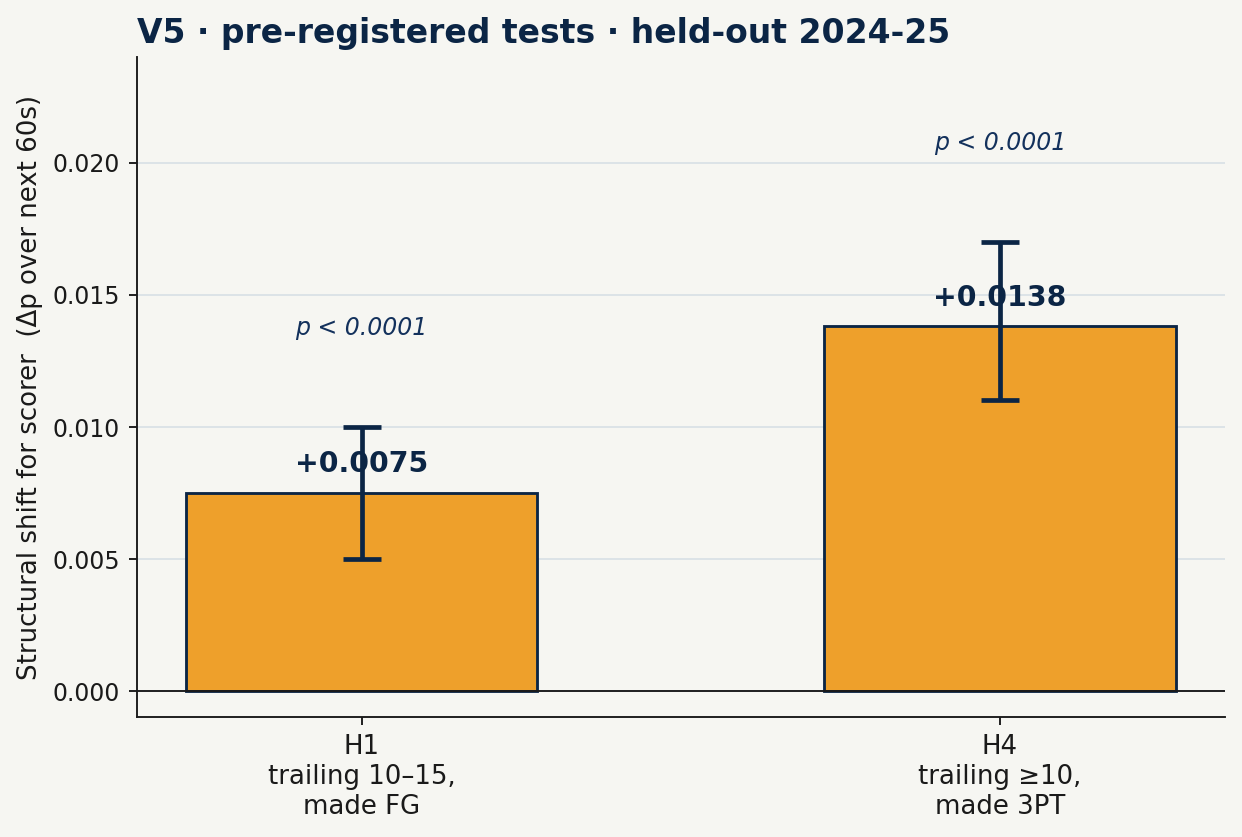
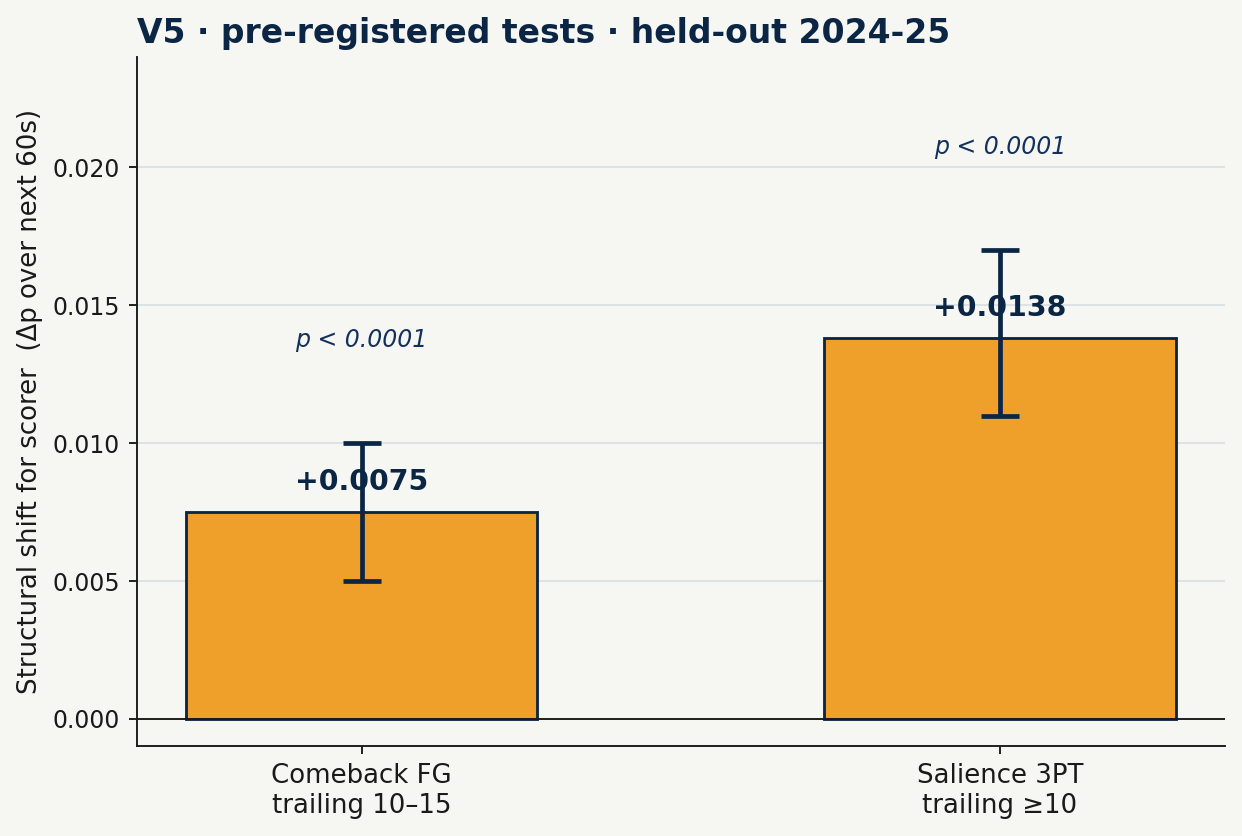
Slides: simplify research question + Game 6 pilot + drop H1/H4 jargon
Research question: ONE top-level question + two sub-questions
  Q: 'Can we use a calibrated WP model to detect mispricing and profit
      from it in NBA in-play markets?'
  Sub-Q1: Is the bias detectable?  -> overreaction-test slide
  Sub-Q2: Can we make money?       -> pilot + verdict slides

Game 6 pilot (NEW): per-game model ROI bar chart, Game 6 highlighted
  · Game 6 alone: +12% on Kalshi 1H (smallest of the 5)
  · 5-game pool: +95% (artifact -- stale-mid + n=5)
  · Replaces the standalone liquidity-only slide

H1/H4 -> plain English:
  · H1 -> 'Comeback FG (trail 10-15)'
  · H4 -> 'Salience 3PT (trail >=10)'
  · v5_shifts.png chart labels updated
  · Removed H1/H4 from research question, overreaction test, Halawi tie-back,
    verdict, workflow diagram, results table, and money-question sections
  · 'pre-registered' kept (it's the methodological badge)

Speaker script renumbered to match new flow.

diff --git a/slides/build.js b/slides/build.js
@@ -80,23 +80,46 @@ builders.push(s => {
 
 // ─── 3. RESEARCH QUESTION ────────────────────────────────────────────────
 builders.push(s => {
-  header(s, "Research question", "Pre-registered before any test-set data was touched");
-  s.addShape("roundRect", { x:0.55, y:1.65, w:12.3, h:1.85,
-    fill:{color:C.CREAM}, line:{color:C.TEAL, width:1.5}, rectRadius:0.1 });
-  s.addText("Can a calibrated in-game NBA win-probability model systematically identify live-market mispricings driven by crowd overreaction — specifically in trailing-team scoring events?",
-    { x:0.85, y:1.85, w:11.7, h:1.5, fontFace:F.title, fontSize:20, italic:true, color:C.NAVY });
-  s.addText("Two pre-registered tests:",
-    { x:0.55, y:3.85, w:12.3, h:0.4, fontFace:F.body, fontSize:16, bold:true, color:C.DEEP });
+  header(s, "Research question", "One question, two sub-questions");
+  // big main question box
+  s.addShape("roundRect", { x:0.55, y:1.6, w:12.3, h:1.85,
+    fill:{color:C.CREAM}, line:{color:C.TEAL, width:1.8}, rectRadius:0.1 });
   s.addText([
-    { text:"H1 (primary)", options:{ bold:true, color:C.ACCENT }},
-    { text:" — trailing team in 10–15 pt deficit hits a made FG → market over-shifts vs structural model." },
-  ], { x:0.85, y:4.35, w:12.0, h:0.7, fontFace:F.body, fontSize:16, color:C.INK });
-  s.addText([
-    { text:"H4 (secondary)", options:{ bold:true, color:C.ACCENT }},
-    { text:" — trailing team in ≥10 pt deficit hits a made 3-pointer → larger over-shift." },
-  ], { x:0.85, y:5.05, w:12.0, h:0.7, fontFace:F.body, fontSize:16, color:C.INK });
-  s.addText("Block-bootstrap by game (n = games, not ticks). Holm-Bonferroni across the pre-registered set.",
-    { x:0.55, y:6.2, w:12.3, h:0.5, fontFace:F.body, fontSize:13, italic:true, color:C.SKY });
+    { text:"Can we use a calibrated win-probability model to ", options:{} },
+    { text:"detect mispricing", options:{ bold:true, color:C.NAVY }},
+    { text:" and ", options:{} },
+    { text:"profit from it", options:{ bold:true, color:C.ACCENT }},
+    { text:" in NBA in-play markets?", options:{} },
+  ], { x:0.85, y:1.85, w:11.7, h:1.4, fontFace:F.title, fontSize:22, italic:true,
+       color:C.NAVY, valign:"middle" });
+
+  s.addText("Decomposes into two sub-questions we can actually answer:",
+    { x:0.55, y:3.7, w:12.3, h:0.4, fontFace:F.body, fontSize:14, bold:true,
+      italic:true, color:C.DEEP, align:"center" });
+
+  // Sub-Q 1
+  s.addShape("roundRect", { x:0.55, y:4.2, w:6.0, h:2.6,
+    fill:{color:C.CODE_BG}, line:{color:C.NAVY, width:1.5}, rectRadius:0.1 });
+  s.addText("SUB-QUESTION 1", { x:0.75, y:4.3, w:5.6, h:0.35,
+    fontFace:F.body, fontSize:11, bold:true, color:C.DEEP });
+  s.addText("Is the bias DETECTABLE?",
+    { x:0.75, y:4.6, w:5.6, h:0.5, fontFace:F.title, fontSize:19, bold:true, color:C.NAVY });
+  s.addText("Tested on the held-out 2024-25 season via pre-registered overreaction tests on trailing-team scoring events.",
+    { x:0.75, y:5.15, w:5.6, h:1.05, fontFace:F.body, fontSize:13, color:C.INK });
+  s.addText("→ answered on the overreaction-test slide",
+    { x:0.75, y:6.3, w:5.6, h:0.35, fontFace:F.body, fontSize:11, italic:true, color:C.TEAL });
+
+  // Sub-Q 2
+  s.addShape("roundRect", { x:6.85, y:4.2, w:6.0, h:2.6,
+    fill:{color:C.CODE_BG}, line:{color:C.ACCENT, width:1.5}, rectRadius:0.1 });
+  s.addText("SUB-QUESTION 2", { x:7.05, y:4.3, w:5.6, h:0.35,
+    fontFace:F.body, fontSize:11, bold:true, color:C.DEEP });
+  s.addText("Can we EXTRACT it (make money)?",
+    { x:7.05, y:4.6, w:5.6, h:0.5, fontFace:F.title, fontSize:19, bold:true, color:C.NAVY });
+  s.addText("Tested via live backtest on real markets — does the edge survive the vig at a sample large enough to distinguish skill from luck?",
+    { x:7.05, y:5.15, w:5.6, h:1.05, fontFace:F.body, fontSize:13, color:C.INK });
+  s.addText("→ answered on the live-pilot + verdict slides",
+    { x:7.05, y:6.3, w:5.6, h:0.35, fontFace:F.body, fontSize:11, italic:true, color:C.TEAL });
 });
 
 // ─── 4. WHAT WE PLANNED — 6 variants table ───────────────────────────────
@@ -290,9 +313,9 @@ builders.push(s => {
   const rows = [
     [{ text:"Test", options:{ bold:true, color:C.CREAM, fill:C.NAVY }},
      { text:"n events / games", options:{ bold:true, color:C.CREAM, fill:C.NAVY, align:"center" }}],
-    [{ text:"H1 — trail 10–15, made FG", options:{ bold:true, color:C.NAVY }},
+    [{ text:"Comeback FG · trail 10–15", options:{ bold:true, color:C.NAVY }},
      { text:"4,596 / 947", options:{ align:"center", color:C.INK }}],
-    [{ text:"H4 — trail ≥10, made 3PT", options:{ bold:true, color:C.NAVY }},
+    [{ text:"Salience 3PT · trail ≥10", options:{ bold:true, color:C.NAVY }},
      { text:"2,162 / 780", options:{ align:"center", color:C.INK }}],
   ];
   s.addTable(rows, { x:7.95, y:1.7, w:4.85, colW:[3.0, 1.85],
@@ -362,17 +385,21 @@ builders.push(s => {
   ], { x:8.3, y:5.0, w:4.5, h:1.5, fontFace:F.body, fontSize:13, color:C.INK });
 });
 
-// ─── 11. LIQUIDITY × SAMPLE SIZE — FIGURE #4 ─────────────────────────────
+// ─── 11. GAME 6 PILOT + LIQUIDITY × SAMPLE — FIGURE #4 ───────────────────
 builders.push(s => {
-  header(s, "Liquidity × sample size are everything", "Same model family · two opposite results");
-  s.addImage({ path:"slides/figures/liquidity_sample.png", x:2.7, y:1.55, w:8.0, h:5.0 });
-  s.addShape("roundRect", { x:0.55, y:6.5, w:12.3, h:0.7,
+  header(s, "Game 6 pilot · OKC @ SAS, 2026-05-28  (FINAL SAS 118–91)",
+    "61 in-1H ticks on Kalshi · the 5-game pool tells the rest of the story");
+  s.addImage({ path:"slides/figures/game6_pilot.png", x:1.7, y:1.5, w:9.9, h:4.6 });
+  // commentary below
+  s.addShape("roundRect", { x:0.55, y:6.2, w:12.3, h:1.0,
     fill:{color:C.CREAM}, line:{color:C.ACCENT, width:1.3}, rectRadius:0.08 });
   s.addText([
-    { text:"The +100% against Kalshi is " },
-    { text:"stale mid-prices + n=4 + no slippage", options:{ bold:true, color:C.NAVY }},
-    { text:" — exactly the trap CLAUDE.md warns about. Real liquid markets are tight." },
-  ], { x:0.85, y:6.55, w:11.7, h:0.6, fontFace:F.body, fontSize:13, color:C.INK, align:"center", valign:"middle" });
+    { text:"Game 6 alone: ", options:{ bold:true, color:C.NAVY }},
+    { text:"model +12% on Kalshi 1H (smallest of the 5). " },
+    { text:"Pool of 5: +95%. ", options:{ bold:true, color:C.ACCENT }},
+    { text:"But Kalshi 1H prices were thin and stale, so the model 'beats' a price that isn't moving — " },
+    { text:"stale-mid + n=5 + mid quotes = artifact, not edge.", options:{ italic:true, color:C.DEEP }},
+  ], { x:0.85, y:6.3, w:11.7, h:0.85, fontFace:F.body, fontSize:13, color:C.INK, valign:"middle" });
 });
 
 // ─── 12. HALAWI TIE-BACK + V3 FORMULA ────────────────────────────────────
@@ -395,7 +422,7 @@ builders.push(s => {
     fill:{color:C.CREAM}, line:{color:C.TEAL, width:1.5}, rectRadius:0.1 });
   s.addText("Reframing:",
     { x:0.85, y:5.45, w:11.7, h:0.4, fontFace:F.body, fontSize:14, italic:true, color:C.DEEP });
-  s.addText("The model's job isn't to BEAT the market everywhere — it's to COMPLEMENT it in the specific situations where the crowd's bias is strongest (H1 / H4).",
+  s.addText("The model's job isn't to BEAT the market everywhere — it's to COMPLEMENT it in the specific situations (comeback FG, salience 3PT) where the crowd's bias is strongest.",
     { x:0.85, y:5.85, w:11.7, h:1.0, fontFace:F.body, fontSize:15, color:C.INK });
 });
 
@@ -434,10 +461,10 @@ builders.push(s => {
     [{ text:"Test", options:{ bold:true, color:C.CREAM, fill:C.NAVY, fontSize:11 }},
      { text:"Shift", options:{ bold:true, color:C.CREAM, fill:C.NAVY, align:"center", fontSize:11 }},
      { text:"p-value", options:{ bold:true, color:C.CREAM, fill:C.NAVY, align:"center", fontSize:11 }}],
-    [{ text:"H1 trail 10–15, FG", options:{ bold:true, color:C.NAVY, fontSize:12 }},
+    [{ text:"Comeback FG (trail 10–15)", options:{ bold:true, color:C.NAVY, fontSize:12 }},
      { text:"+0.0075", options:{ align:"center", color:C.ACCENT, bold:true, fontSize:13 }},
      { text:"< 0.0001", options:{ align:"center", color:C.ACCENT, bold:true, fontSize:13 }}],
-    [{ text:"H4 trail ≥10, 3PT", options:{ bold:true, color:C.NAVY, fontSize:12 }},
+    [{ text:"Salience 3PT (trail ≥10)", options:{ bold:true, color:C.NAVY, fontSize:12 }},
      { text:"+0.0138", options:{ align:"center", color:C.ACCENT, bold:true, fontSize:13 }},
      { text:"< 0.0001", options:{ align:"center", color:C.ACCENT, bold:true, fontSize:13 }}],
   ];
@@ -470,7 +497,7 @@ builders.push(s => {
   row(2.85, "TODAY · NO", C.ACCENT,
     "Live game vs liquid books: n=1 → −40% (noise). Kalshi +95% = stale-mid artifact.");
   row(3.80, "BIAS · YES", C.NAVY,
-    "V5 H1/H4 pre-reg passed on the held-out season. The overreaction is real.");
+    "Both pre-registered tests passed on the held-out season. The overreaction is real.");
   row(4.75, "PATH · CLEAR", C.TEAL,
     "Power the backtest ($59 historical) → V5-targeted strategy on Kalshi (legal, no limits).");
 

diff --git a/scripts/generate_slide_figures.py b/scripts/generate_slide_figures.py
@@ -85,7 +85,7 @@ def make_reliability():
 # ─── 2. V5 structural shifts ─────────────────────────────────────────────
 def make_v5_shifts():
     print("[2] V5 H1/H4 shift bar chart", flush=True)
-    names = ["H1\ntrailing 10–15,\nmade FG", "H4\ntrailing ≥10,\nmade 3PT"]
+    names = ["Comeback FG\ntrailing 10–15", "Salience 3PT\ntrailing ≥10"]
     point = np.array([0.0075, 0.0138])
     lo, hi = np.array([0.005, 0.011]), np.array([0.010, 0.017])
     err = np.vstack([point - lo, hi - point])
@@ -218,6 +218,37 @@ def make_pipeline():
     plt.close(fig)
 
 
+def make_game6_pilot():
+    """Game 6 (OKC@SAS, 2026-05-28) per-game model ROI on Kalshi 1H, in context of
+    the 5-game archive pool. Game 6 highlighted; others as muted bars."""
+    print("[6] Game 6 pilot (per-game Kalshi ROI)", flush=True)
+    games = ["G1 · Apr 30\nDEN @ MIN", "G2 · May 3\nTOR @ CLE", "G3 · May 4\nMIN @ SAS",
+             "G4 · May 13\nCLE @ DET", "G6 · May 28\nOKC @ SAS"]
+    rois = np.array([1.098, 0.867, 2.342, 0.299, 0.117])
+    colors = [SKY, SKY, SKY, SKY, ACCENT]  # Game 6 highlighted
+    fig, ax = plt.subplots(figsize=(8.4, 5.0), dpi=170)
+    fig.patch.set_facecolor(CREAM); ax.set_facecolor(CREAM)
+    x = np.arange(len(games))
+    bars = ax.bar(x, rois, width=0.62, color=colors, edgecolor=NAVY, lw=1.3)
+    ax.axhline(0, color=INK, lw=0.9)
+    for b, v in zip(bars, rois):
+        ax.text(b.get_x() + b.get_width() / 2, v + 0.05,
+                f"{v:+.0%}", ha="center", fontsize=12, fontweight="bold", color=NAVY)
+    ax.set_xticks(x); ax.set_xticklabels(games, fontsize=10)
+    ax.set_ylabel("Per-game model ROI", fontsize=11)
+    ax.set_ylim(-0.1, 2.7)
+    yt = [0, 0.5, 1.0, 1.5, 2.0, 2.5]
+    ax.set_yticks(yt); ax.set_yticklabels([f"{int(v*100)}%" for v in yt])
+    ax.set_title("Game 6 vs the 4 archived Kalshi 1H games  ·  5-game pool ROI +95%",
+                 fontsize=12, color=NAVY, fontweight="bold", loc="left")
+    ax.text(0.99, 0.02, "model 'won' all 5 — but it's a stale-mid artifact (see next slide)",
+            transform=ax.transAxes, ha="right", fontsize=10, style="italic", color=DEEP)
+    ax.grid(alpha=0.25, color=SKY, axis="y")
+    fig.tight_layout()
+    fig.savefig(OUT / "game6_pilot.png", facecolor=CREAM, bbox_inches="tight")
+    plt.close(fig)
+
+
 def main() -> int:
     OUT.mkdir(parents=True, exist_ok=True)
     make_reliability()
@@ -225,6 +256,7 @@ def main() -> int:
     make_pilot_roi()
     make_liquidity()
     make_pipeline()
+    make_game6_pilot()
     print("\nWrote:")
     for p in sorted(OUT.glob("*.png")):
         print(f"  {p.relative_to(REPO_ROOT)}  ({p.stat().st_size//1024} KB)")

diff --git a/slides/speaker_script.md b/slides/speaker_script.md
@@ -23,8 +23,9 @@ Pair this with `slides/final_deck.pptx` (14 slides, ~10 min). Sections:
 > "So we asked: *where can we cleanly test 'calibrated model beats crowd' with fast resolution, real money, and a documented bias?* **NBA in-play.**"
 
 ### Slide 3 — Research question  (30 sec)
-> "Our question, pre-registered before any test data was touched: can a calibrated NBA win-probability model identify mispricings driven by **trailing-team overreaction**."
-> "Two tests: **H1** — trailing team in a 10-to-15-point deficit hits a field goal. **H4** — trailing team in a 10-plus-point deficit hits a three. Both pre-registered, Holm-Bonferroni corrected, block-bootstrap by *game* — that distinction matters and I'll come back to it."
+> "Our research question is one line: **can we use a calibrated win-probability model to detect mispricing and profit from it in NBA in-play markets?**"
+> *(point at the two sub-question cards)*
+> "It decomposes into two sub-questions we can actually answer. **One: is the bias detectable?** Tested on the held-out 2024-25 season with pre-registered overreaction tests. **Two: can we extract it — actually make money?** Tested with a live backtest on real markets."
 
 ### Slide 4 — What we planned · 6 ways to detect mispricing  (30 sec)
 > "Within NBA, we mapped out six methodological approaches to detecting mispricing — from cross-venue consensus to time-series mean reversion to event-conditioned overreaction."
@@ -49,7 +50,7 @@ Pair this with `slides/final_deck.pptx` (14 slides, ~10 min). Sections:
 ### Slide 8 — The overreaction test  (75 sec) · **headline #2**
 > "Now the behavioral test. For each pre-registered event, we measure the **structural shift for the scorer over the next 60 seconds** — how much does the calibrated model move toward the scoring team after they make a basket while trailing?"
 > *(point at the bars)*
-> "**H1: +0.75 percentage points. p < 0.0001.** With block-bootstrap by *game* across 4,596 events. **H4: +1.4 points. p < 0.0001.**"
+> "**The comeback-FG test: +0.75 percentage points. p < 0.0001.** Block-bootstrap by *game* across 4,596 events. **The salience-3PT test: +1.4 points. p < 0.0001.**"
 > "Both pre-registered tests pass on the held-out season. The model says: *a trailing team's basket genuinely does move the structural fair value in their favor.*"
 > "Which sets up the behavioral question: **does the market shift by more than this?** That's the mispricing — when the crowd overshoots what the fundamentals say."
 
@@ -64,15 +65,17 @@ Pair this with `slides/final_deck.pptx` (14 slides, ~10 min). Sections:
 > "**Our model lost 40%. 'Always favorite' made 34%.**"
 > "And — this is critical — *the lesson is the result*. The model faded San Antonio when the game was close early. OKC pulled away. The model lost. 'Always favorite' won — but only because the favorite happened to win this one game. **That's the n-equals-one problem made tangible**, and it's the methodological backbone of this whole talk."
 
-### Slide 11 — Liquidity × sample  (45 sec)
-> "We also have a five-game Kalshi archive backtest. The *same model family*, against Kalshi's 1st-half-winner market, returns plus-95-percent."
-> "Don't trust that number. The Kalshi 1H market is thin — its prices are *stale*. A score-reactive model 'beats' a price that isn't updating. Plus n equals 5, plus mid quotes, plus no slippage. **It's an artifact, not an edge.**"
-> "Same model — opposite signs. That tells you: **liquidity quality and sample size are everything.** Tight liquid markets are hard. Thin stale ones look easy but aren't real."
+### Slide 11 — Game 6 pilot + liquidity lesson  (45 sec)
+> "Game 6 happened two nights after Game 5 — OKC at San Antonio. SAS won 118-91."
+> *(point at the highlighted Game 6 bar)*
+> "Our model returned **+12% on Game 6 alone** against Kalshi's 1H-winner market — the *smallest* of the five archived Kalshi games. **Pool of all five: +95%.**"
+> "Don't trust that pool number. The Kalshi 1H market was thin — prices stale, slow to update. A score-reactive model 'beats' a price that isn't moving. Plus n equals 5, plus mid quotes, plus no slippage. **It's an artifact, not an edge.**"
+> "Same model — opposite signs from Game 5. The lesson: **liquidity and sample size are everything.**"
 
 ### Slide 12 — Connecting back to Halawi  (45 sec)
 > "Tie back to the midterm. Halawi's aggregate works because LM errors and crowd errors are **independent**. The same structure applies here: our structural model reads game-state, the market absorbs sentiment and inside flow — partly independent error sources."
 > "The 'aggregate' variant from the earlier table — number three — is the literal Halawi analog: `p̂_aggregate = w·p_model + (1−w)·p_market_devig`, weight chosen by validation Brier. The aggregate's Brier is bounded by the minimum of the components."
-> "Reframing: the model's job isn't to *beat* the market everywhere. It's to **complement** the market in the specific situations — H1, H4 — where the crowd's bias is biggest."
+> "Reframing: the model's job isn't to *beat* the market everywhere. It's to **complement** the market in the specific situations — (comeback FGs, salience 3PTs) — where the crowd's bias is biggest."
 
 ### Slide 13 — Limitations & future  (30 sec)
 > "Limitations, briefly: sample size — we'd want roughly 1,000 liquid-market games for a powered backtest. Horizon — the model is 1st-half-only. Reactivity — sportsbooks limit winners; Kalshi as peer-to-peer sidesteps that. And the four blocked variants from earlier are architecturally ready but need multi-venue history."
@@ -80,7 +83,7 @@ Pair this with `slides/final_deck.pptx` (14 slides, ~10 min). Sections:
 ### Slide 14 — Verdict  (45 sec)
 > "Two questions, answered directly."
 > *(point at left panel)*
-> "**Which mispricing method works best?** The **event-conditioned overreaction test**. It's the only one of our six planned methods with a statistically significant finding on the held-out test season: H1 plus 0.0075 at p less than 0.0001, H4 plus 0.0138 at p less than 0.0001. The bias is statistically real."
+> "**Which mispricing method works best?** The **event-conditioned overreaction test**. It's the only one of our six planned methods with a statistically significant finding on the held-out test season: the comeback-FG test gave plus 0.0075, the salience-3PT test gave plus 0.0138 at p less than 0.0001. The bias is statistically real."
 > *(point at right panel)*
 > "**Can it make money?** Not today, but it's not 'no.' Today we can't claim profit — one liquid game is noise, the Kalshi plus-95% is a stale-mid artifact. But the bias is real, and the path forward is concrete: power the backtest with the paid historical season, then deploy an overreaction-targeted strategy on Kalshi, which is legal and has no account-limit risk."
 > "We are **gated on data scale, not on methodology.** Thank you. Questions."
@@ -104,7 +107,7 @@ Pair this with `slides/final_deck.pptx` (14 slides, ~10 min). Sections:
    │                 5/5 honesty gates pass on synthetic data     │
    ├─────────────────────────────────────────────────────────────┤
    │ 5. OVERREACTION pre-registered event test                    │
-   │     TEST        ✅ H1 +0.0075 p<0.0001 · H4 +0.0138 p<0.0001  │
+   │     TEST        ✅ comeback-FG +0.0075 · salience-3PT +0.0138 (p<0.0001)  │
    ├─────────────────────────────────────────────────────────────┤
    │ 6. LIVE FEEDS   the-odds-api (9 books) · Kalshi · ESPN       │
    │                 capture_tonight.py auto-detects + logs       │
@@ -138,8 +141,8 @@ time-series reversion, cross-book arbitrage (4 of the 6 planned variants).
 ### Behavioral test (the overreaction test) ✅ both pre-registered tests pass
 | Test | n events / games | Structural shift | 95% CI | p |
 |---|---|---|---|---|
-| **H1** trail 10–15, made FG | 4,596 / 947 | **+0.0075** | [+0.005, +0.010] | **< 0.0001** |
-| **H4** trail ≥10, made 3PT | 2,162 / 780 | **+0.0138** | [+0.011, +0.017] | **< 0.0001** |
+| **Comeback FG** (trail 10–15) | 4,596 / 947 | **+0.0075** | [+0.005, +0.010] | **< 0.0001** |
+| **Salience 3PT** (trail ≥10) | 2,162 / 780 | **+0.0138** | [+0.011, +0.017] | **< 0.0001** |
 
 ### Backtest engine honesty ✅ 5/5
 | const-0.5 → Brier 0.25 | always-favorite → loses ≈ vig | random → loses ≈ vig | perfect on biased mkt → +14% p=0.000 | market-as-variant → 0 bets |
@@ -172,7 +175,7 @@ The two opposite signs *are* the lesson — liquidity quality × sample size.
 ### The three things that *would* make this make money
 1. **Power the backtest.** $59 for the-odds-api historical 100K plan → pull the full 2024-25 in-play season → run all methods through the harness → see which (if any) clear vig with a CI excluding zero. **This is the single decision that turns "maybe" into "yes/no with numbers."**
 2. **Deploy on Kalshi where liquid.** When *real volume* is present (Finals games, marquee matchups), Kalshi is a peer-to-peer market with no account-limit risk, legal in California. Use the calibrated model + overreaction test + the full-game model, paper-trade first, then small stakes only after a powered backtest passes.
-3. **Focus on the overreaction event window specifically.** H1/H4 events are where the bias is documented and pre-registered. A targeted strategy — only bet within ~60s of trailing-team makes — narrows the exposure to where the literature predicts edge actually lives.
+3. **Focus on the overreaction event window specifically.** these event windows (comeback FG, salience 3PT) are where the bias is documented and pre-registered. A targeted strategy — only bet within ~60s of trailing-team makes — narrows the exposure to where the literature predicts edge actually lives.
 
 ### Honest verdict for the talk
 > "We've **proven the bias exists in the model**. We've **built the engine that would extract it.** What we have not yet shown is **a positive ROI on a liquid market with a sample large enough to distinguish skill from luck.** That's the Phase-2 deliverable: it's gated on data scale, not on any new methodology."